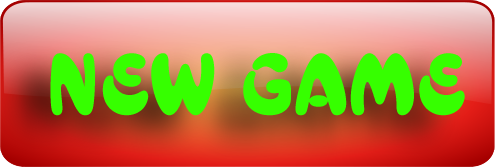
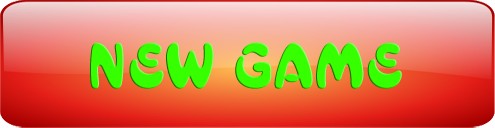
main menu buttons change

diff --git a/Classes/StartMenuScene.cpp b/Classes/StartMenuScene.cpp
@@ -307,10 +307,6 @@ void StartMenuScene::initMainMenu(){
     CCMenuItemImage * score = CCMenuItemImage::create("top_score_normal.png", "top_score_selected.png" , this , menu_selector(StartMenuScene::scoreHandler));
     score->setTag(TOP_SCORE);
 
-    newGame->setScale(0.5);
-    options->setScale(0.5);
-    score->setScale(0.5);
-
     CCMenuItemImage * background = CCMenuItemImage::create("background_main.png" , "background_main.png");
     CCSize size = background->getContentSize();
     background->setScaleY(winSize.height/size.height);
@@ -321,22 +317,28 @@ void StartMenuScene::initMainMenu(){
 #ifdef MULTIPLAY
     CCMenuItemImage * pvp = CCMenuItemImage::create("pvp_normal.png", "pvp_selected.png" , this , menu_selector(StartMenuScene::pvpHandler));
 #elif CC_TARGET_PLATFORM == CC_PLATFORM_IOS || CC_TARGET_PLATFORM == CC_PLATFORM_ANDROID
-    CCMenuItemImage * pvp = CCMenuItemImage::create("purchase_normal.png", "purchase_selected.png" , this , menu_selector(StartMenuScene::pvpHandler));
-    pvp->setScale(0.5);
+    newGame->setScale(0.6);
+    options->setScale(0.6);
+    score->setScale(0.6);
+    pvp->setScale(0.6);
     pvp->setTag(PVP);
+    CCMenuItemImage * pvp = CCMenuItemImage::create("purchase_normal.png", "purchase_selected.png" , this , menu_selector(StartMenuScene::pvpHandler));
 
     startMenu = CCMenu::create(background , newGame , options, score , pvp , NULL);
     startMenu->ignoreAnchorPointForPosition(false);
-    newGame->setPosition(ccp(winSize.width*0.25 , winSize.height*0.4));
-    options->setPosition(ccp(winSize.width*0.75 , winSize.height*0.4));
-    score->setPosition(ccp(winSize.width*0.25 , winSize.height*0.25));
-    pvp->setPosition(ccp(winSize.width*0.75 , winSize.height*0.25));
+    newGame->setPosition(ccp(winSize.width*0.3 , winSize.height*0.45));
+    options->setPosition(ccp(winSize.width*0.7 , winSize.height*0.45));
+    score->setPosition(ccp(winSize.width*0.3 , winSize.height*0.3));
+    pvp->setPosition(ccp(winSize.width*0.7 , winSize.height*0.3));
 #else
+    newGame->setScale(0.6);
+    options->setScale(0.6);
+    score->setScale(0.6);
     startMenu = CCMenu::create(background , newGame , options, score , NULL);
     startMenu->ignoreAnchorPointForPosition(false);
-    newGame->setPosition(ccp(winSize.width*0.25 , winSize.height*0.375));
+    newGame->setPosition(ccp(winSize.width*0.2 , winSize.height*0.375));
     options->setPosition(ccp(winSize.width*0.5 , winSize.height*0.375));
-    score->setPosition(ccp(winSize.width*0.75 , winSize.height*0.375));
+    score->setPosition(ccp(winSize.width*0.8 , winSize.height*0.375));
 #endif
 
     infoLabel = CCLabelTTF::create("0", INFO_FONT, 48 );
@@ -453,7 +455,7 @@ void StartMenuScene::initOptionsMenu(){
     CCMenuItemLabel * sound = CCMenuItemLabel::create(
     		CCLabelTTF::create("SOUND", FONT , 64));
     sound->setDisabledColor(ccBLUE);
-    sound->setPosition(ccp(winSize.width/2, winSize.height*0.39));
+    sound->setPosition(ccp(winSize.width/2, winSize.height*0.37));
     sound->setEnabled(false);
 
     //row 6
